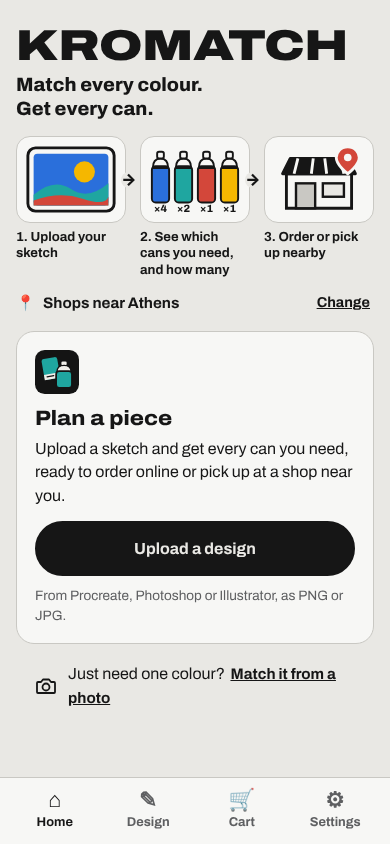
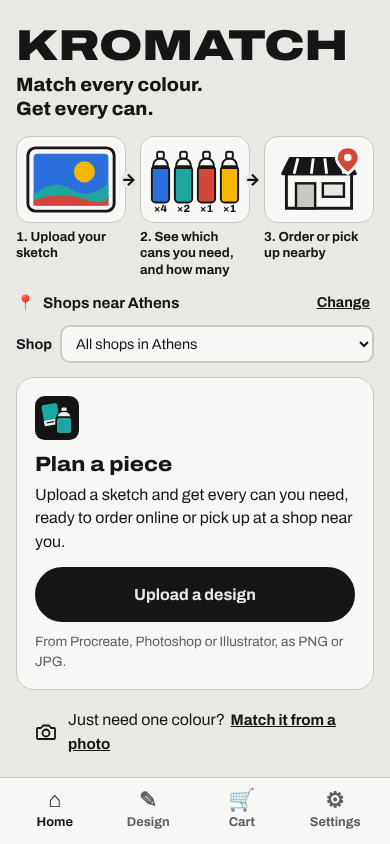
Add files via upload

Changed region(s): [[0.0308, 0.3697, 0.9538, 0.8934], [0.0923, 0.8626, 0.1538, 0.8934], [0.0308, 0.7393, 0.0615, 0.7701]]

diff --git a/index.html b/index.html
@@ -96,7 +96,7 @@
   input[type=file] { position: absolute; opacity: 0; width: 1px; height: 1px; }
 
   .loc-bar { display: flex; align-items: center; gap: 8px; margin: -8px 0 14px; font-weight: 700; font-size: 0.95rem; }
-  .loc-bar .link-btn { margin-left: auto; white-space: nowrap; }
+  .loc-bar .link-btn { margin-left: auto; }
   .shop-pick { display: flex; align-items: center; gap: 8px; margin: -6px 0 14px; font-size: 0.9rem; font-weight: 700; }
   .shop-pick select { flex: 1; font: inherit; font-weight: 400; padding: 8px 10px; border-radius: 10px; border: 2px solid var(--line);
                       background: var(--surface); color: var(--ink); min-width: 0; }
@@ -112,8 +112,6 @@
   .home-one { display: flex; align-items: center; gap: 10px; padding: 4px 18px; color: var(--ink); font-size: 1rem; }
   .home-one .one-link { position: relative; padding: 4px 2px; font-size: 0.95rem; }
   .home-ico { line-height: 1; }
-  /* Home: just the area and Change; choosing one shop happens on the Design screen, next to the cans and prices */
-  main#app:has(> #empty:not([hidden])) > #locBlock .shop-pick { display: none !important; }
   .design-prompt { display: flex; align-items: center; justify-content: space-between; gap: 12px; background: var(--surface);
                    border-radius: 14px; padding: 12px 14px; margin-top: 16px; }
   .design-prompt b { font-size: 0.95rem; }
@@ -827,9 +825,9 @@
   </div>
 </div>
 
-<script src="colors.js?v=2026-11-23-city"></script>
-<script src="shops.js?v=2026-11-23-city"></script>
-<script src="config.js?v=2026-11-23-city"></script>
+<script src="colors.js?v=2026-11-23-simple4"></script>
+<script src="shops.js?v=2026-11-23-simple4"></script>
+<script src="config.js?v=2026-11-23-simple4"></script>
 <script src="https://cdn.jsdelivr.net/npm/@supabase/supabase-js@2.118.0/dist/umd/supabase.js"></script>
 <script>
 /* ---------- Colour maths ---------- */
@@ -890,7 +888,6 @@ function deltaE2000(lab1, lab2) {
 /* ---------- Text in seven languages ---------- */
 const T = {
   en: {
-    locPickCity: 'Choose city',
     how1: 'Upload your sketch', how2: 'See which cans you need, and how many', how3: 'Order or pick up nearby',
     designN: 'Design {n}', otherCans: 'Other cans',
     heroLine: 'Stop guessing colours and can counts. Kromatch finds the right can for every colour in your design, tells you how many you need, and where to buy them nearby.',
@@ -1105,11 +1102,10 @@ const T = {
     locSuggest: 'Looks like you’re in {city}. Switch to shops there?',
     locSwitch: 'Switch',
     locKeep: 'Keep {city}',
-    locNoCity: 'See shops near you',
+    locNoCity: 'No city chosen',
     locAuto: 'Set from your phone’s time zone'
   },
   el: {
-    locPickCity: 'Επιλογή πόλης',
     how1: 'Ανέβασε το σκίτσο σου', how2: 'Δες ποια σπρέι χρειάζεσαι και πόσα', how3: 'Παράγγειλε ή παράλαβε κοντά σου',
     designN: 'Σχέδιο {n}', otherCans: 'Άλλα σπρέι',
     heroLine: 'Τέλος οι μαντεψιές για χρώματα και ποσότητες. Το Kromatch βρίσκει το σωστό σπρέι για κάθε χρώμα του σχεδίου σου, σου λέει πόσα χρειάζεσαι και πού θα τα βρεις κοντά σου.',
@@ -1324,11 +1320,10 @@ const T = {
     locSuggest: 'Φαίνεται ότι είσαι στην πόλη {city}. Αλλαγή στα καταστήματα εκεί;',
     locSwitch: 'Αλλαγή',
     locKeep: 'Μείνε στην πόλη {city}',
-    locNoCity: 'Καταστήματα κοντά σου',
+    locNoCity: 'Δεν έχει επιλεγεί πόλη',
     locAuto: 'Ορίστηκε από τη ζώνη ώρας του κινητού'
   },
   fr: {
-    locPickCity: 'Choisir la ville',
     how1: 'Importez votre croquis', how2: 'Voyez de quelles bombes vous avez besoin, et combien', how3: 'Commandez ou retirez près de chez vous',
     designN: 'Dessin {n}', otherCans: 'Autres bombes',
     heroLine: 'Fini de deviner les couleurs et le nombre de bombes. Kromatch trouve la bonne bombe pour chaque couleur de votre dessin, vous dit combien il en faut et où les acheter près de chez vous.',
@@ -1543,11 +1538,10 @@ const T = {
     locSuggest: 'Vous semblez être à {city}. Afficher les magasins de cette ville\u202f?',
     locSwitch: 'Changer',
     locKeep: 'Garder {city}',
-    locNoCity: 'Magasins près de chez vous',
+    locNoCity: 'Aucune ville choisie',
     locAuto: 'Défini d’après le fuseau horaire du téléphone'
   },
   de: {
-    locPickCity: 'Stadt wählen',
     how1: 'Skizze hochladen', how2: 'Sieh, welche Dosen du brauchst und wie viele', how3: 'Bestellen oder in der Nähe abholen',
     designN: 'Design {n}', otherCans: 'Weitere Dosen',
     heroLine: 'Schluss mit Raten bei Farben und Dosenzahl. Kromatch findet die richtige Dose für jede Farbe deines Designs, sagt dir, wie viele du brauchst und wo du sie in der Nähe bekommst.',
@@ -1755,11 +1749,9 @@ const T = {
     locSuggest: 'Du scheinst in {city} zu sein. Zu den Shops dort wechseln?',
     locSwitch: 'Wechseln',
     locKeep: '{city} behalten',
-    locNoCity: 'Läden in deiner Nähe',
     locAuto: 'Aus der Zeitzone deines Handys übernommen'
   },
   es: {
-    locPickCity: 'Elegir ciudad',
     how1: 'Sube tu boceto', how2: 'Mira qué sprays necesitas y cuántos', how3: 'Pide o recoge cerca de ti',
     designN: 'Diseño {n}', otherCans: 'Otros sprays',
     heroLine: 'Deja de adivinar colores y cuántos sprays. Kromatch encuentra el spray adecuado para cada color de tu diseño, te dice cuántos necesitas y dónde comprarlos cerca.',
@@ -1967,11 +1959,9 @@ const T = {
     locSuggest: 'Parece que estás en {city}. ¿Cambiar a las tiendas de allí?',
     locSwitch: 'Cambiar',
     locKeep: 'Seguir con {city}',
-    locNoCity: 'Tiendas cerca de ti',
     locAuto: 'Según la zona horaria de tu móvil'
   },
   it: {
-    locPickCity: 'Scegli città',
     how1: 'Carica il tuo schizzo', how2: 'Scopri quali bombolette ti servono e quante', how3: 'Ordina o ritira vicino a te',
     designN: 'Progetto {n}', otherCans: 'Altre bombolette',
     heroLine: 'Basta indovinare colori e numero di bombolette. Kromatch trova la bomboletta giusta per ogni colore del tuo progetto, ti dice quante ne servono e dove comprarle vicino a te.',
@@ -2179,11 +2169,9 @@ const T = {
     locSuggest: 'Sembra che tu sia a {city}. Passare ai negozi di lì?',
     locSwitch: 'Cambia',
     locKeep: 'Resta su {city}',
-    locNoCity: 'Negozi vicino a te',
     locAuto: 'Impostata dal fuso orario del telefono'
   },
   pt: {
-    locPickCity: 'Escolher cidade',
     how1: 'Envie seu esboço', how2: 'Veja quais latas você precisa e quantas', how3: 'Peça ou retire perto de você',
     designN: 'Projeto {n}', otherCans: 'Outras latas',
     heroLine: 'Chega de adivinhar cores e quantidades. O Kromatch encontra a lata certa para cada cor do seu desenho, diz quantas você precisa e onde comprá-las por perto.',
@@ -2391,7 +2379,6 @@ const T = {
     locSuggest: 'Parece que você está em {city}. Mudar para as lojas de lá?',
     locSwitch: 'Mudar',
     locKeep: 'Continuar em {city}',
-    locNoCity: 'Lojas perto de você',
     locAuto: 'Definida pelo fuso horário do telefone'
   }
 };
@@ -4734,7 +4721,7 @@ function updateLocBar() {
     $('locChange').textContent = t('allShopsLink');
   } else {
     $('locText').textContent = store.city ? t('locNear').replace('{city}', cityName(store.city)) : t('locNoCity');
-    $('locChange').textContent = store.city ? t('locChange') : t('locPickCity');   // no city yet: an obvious next step
+    $('locChange').textContent = t('locChange');
   }
   renderShopPick();
 }
@@ -4757,8 +4744,6 @@ $('locKeep').addEventListener('click', () => { store.dismissTz = suggestCity; sa
 $('locChange').addEventListener('click', () => {
   if (lockedShop) { unlockShop(); if (lastSample) showResults(); rematchDesign(); renderListCount(); return; }
   $('openSettings').click();
-  // go straight to the city choice
-  setTimeout(() => { const c = $('setCity'); if (c) { c.scrollIntoView({ block: 'center' }); c.focus(); } }, 150);
 });
 $('useLocation').addEventListener('click', () => {
   if (!navigator.geolocation) { $('locMsg').textContent = t('locDenied'); return; }
